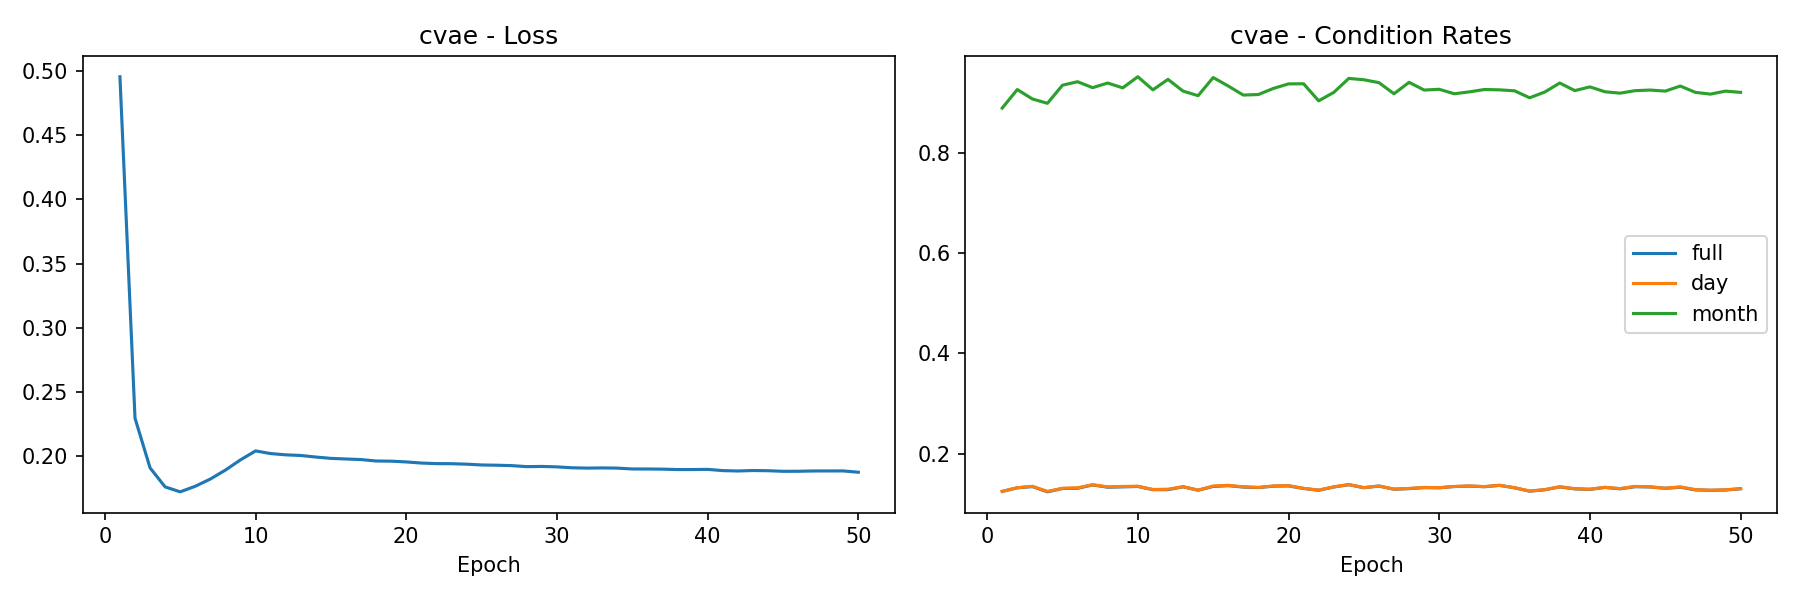
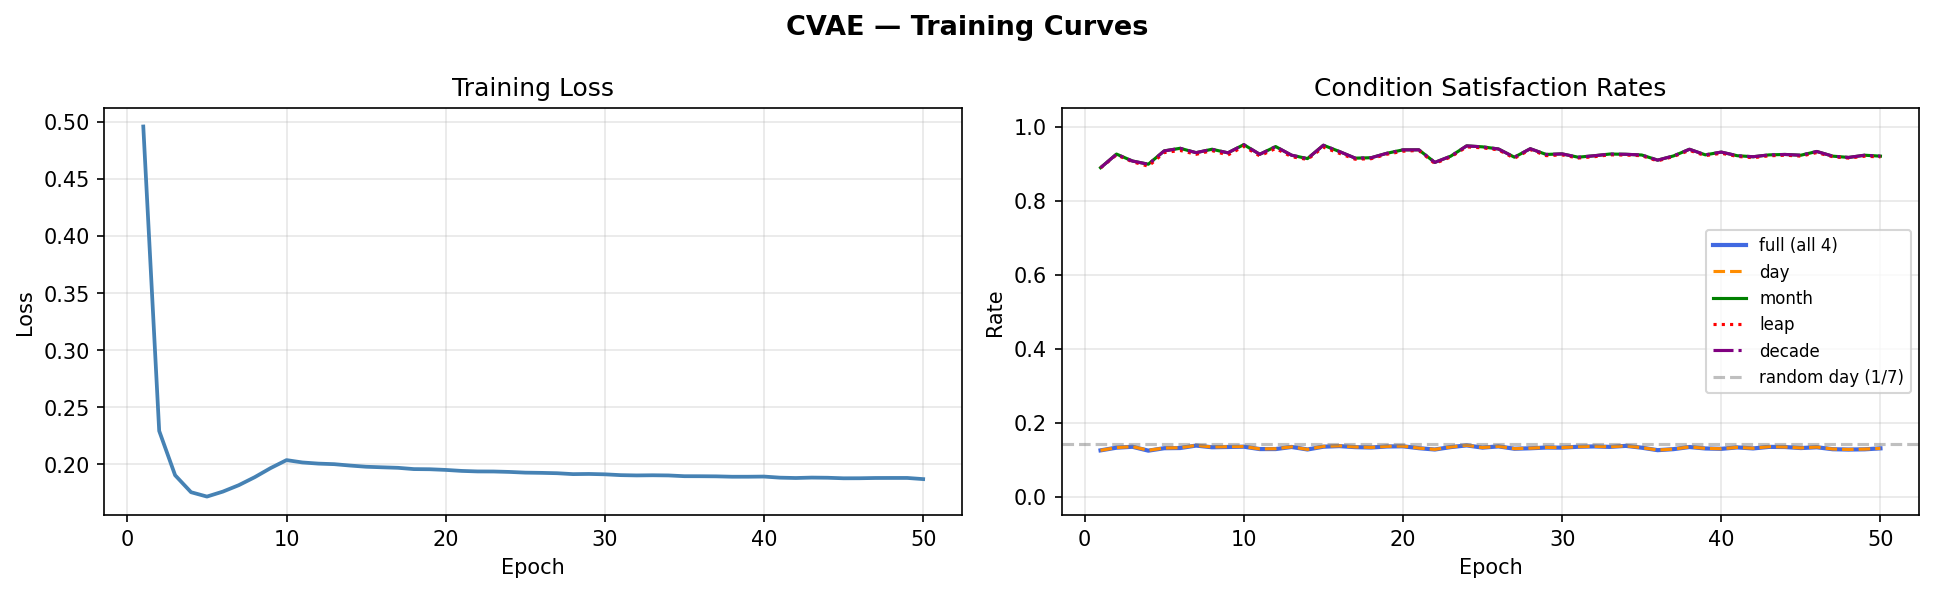
fix :seq2seq

diff --git a/scripts/fix_and_plot.py b/scripts/fix_and_plot.py
@@ -1,0 +1,63 @@
+import pandas as pd
+import matplotlib
+matplotlib.use('Agg')
+import matplotlib.pyplot as plt
+from pathlib import Path
+
+# ── Load and clean ───────────────────────────────────────────
+df = pd.read_csv("model/weights/training_log.csv")
+
+# For seq2seq: keep only the last 50 epochs (the fixed run)
+# Drop rows where loss is NaN or absurdly large (>1000)
+df_clean = df[df["train_loss"].notna() & (df["train_loss"] < 1000)].copy()
+
+# For each model keep only the last N epochs in case of duplicate runs
+cleaned_parts = []
+for model in df_clean["model"].unique():
+    m = df_clean[df_clean["model"] == model].copy()
+    # Re-index epochs from 1
+    m = m.reset_index(drop=True)
+    m["epoch"] = range(1, len(m) + 1)
+    cleaned_parts.append(m)
+
+df_clean = pd.concat(cleaned_parts, ignore_index=True)
+df_clean.to_csv("model/weights/training_log_clean.csv", index=False)
+print("Cleaned CSV saved.")
+
+# ── Plot each model ──────────────────────────────────────────
+Path("eval_results").mkdir(exist_ok=True)
+
+for model in df_clean["model"].unique():
+    m = df_clean[df_clean["model"] == model]
+
+    fig, (ax1, ax2) = plt.subplots(1, 2, figsize=(13, 4))
+    fig.suptitle(f"{model.upper()} — Training Curves", fontsize=13, fontweight="bold")
+
+    # Left: Loss
+    ax1.plot(m["epoch"], m["train_loss"], color="steelblue", linewidth=1.8)
+    ax1.set_title("Training Loss")
+    ax1.set_xlabel("Epoch")
+    ax1.set_ylabel("Loss")
+    ax1.grid(True, alpha=0.3)
+
+    # Right: Condition rates
+    ax2.plot(m["epoch"], m["full_pass_rate"],   label="full (all 4)",  linewidth=2,   color="royalblue")
+    ax2.plot(m["epoch"], m["day_pass_rate"],    label="day",           linewidth=1.5, color="darkorange", linestyle="--")
+    ax2.plot(m["epoch"], m["month_pass_rate"],  label="month",         linewidth=1.5, color="green")
+    ax2.plot(m["epoch"], m["leap_pass_rate"],   label="leap",          linewidth=1.5, color="red",    linestyle=":")
+    ax2.plot(m["epoch"], m["decade_pass_rate"], label="decade",        linewidth=1.5, color="purple", linestyle="-.")
+    ax2.axhline(y=1/7, color="gray", linestyle="--", alpha=0.5, label="random day (1/7)")
+    ax2.set_ylim(-0.05, 1.05)
+    ax2.set_title("Condition Satisfaction Rates")
+    ax2.set_xlabel("Epoch")
+    ax2.set_ylabel("Rate")
+    ax2.legend(fontsize=8, loc="center right")
+    ax2.grid(True, alpha=0.3)
+
+    plt.tight_layout()
+    out = f"eval_results/{model}_training.png"
+    plt.savefig(out, dpi=150, bbox_inches="tight")
+    plt.close()
+    print(f"Saved: {out}")
+
+print("\nAll plots saved to eval_results/")

diff --git a/scripts/fix_seq2seq_plot.py b/scripts/fix_seq2seq_plot.py
@@ -1,0 +1,43 @@
+import pandas as pd
+import matplotlib
+matplotlib.use('Agg')
+import matplotlib.pyplot as plt
+from pathlib import Path
+
+Path("eval_results").mkdir(exist_ok=True)
+
+df = pd.read_csv("model/weights/training_log.csv")
+
+# Keep only seq2seq rows where loss < 10 (the fixed run, not the NaN/millions run)
+seq = df[(df["model"] == "seq2seq") & (df["train_loss"] < 10)].copy()
+seq = seq.reset_index(drop=True)
+seq["epoch"] = range(1, len(seq) + 1)
+
+print(f"Seq2seq clean rows: {len(seq)}")
+print(seq[["epoch","train_loss","full_pass_rate","day_pass_rate","month_pass_rate"]].head(10))
+
+fig, (ax1, ax2) = plt.subplots(1, 2, figsize=(13, 4))
+fig.suptitle("SEQ2SEQ — Training Curves", fontsize=13, fontweight="bold")
+
+ax1.plot(seq["epoch"], seq["train_loss"], color="steelblue", linewidth=1.8)
+ax1.set_title("Training Loss")
+ax1.set_xlabel("Epoch"); ax1.set_ylabel("Loss")
+ax1.set_ylim(0.85, 1.30)
+ax1.grid(True, alpha=0.3)
+
+ax2.plot(seq["epoch"], seq["full_pass_rate"],   label="full (all 4)",  color="royalblue",  linewidth=2)
+ax2.plot(seq["epoch"], seq["day_pass_rate"],    label="day",           color="darkorange", linewidth=1.5, linestyle="--")
+ax2.plot(seq["epoch"], seq["month_pass_rate"],  label="month",         color="green",      linewidth=1.5)
+ax2.plot(seq["epoch"], seq["leap_pass_rate"],   label="leap",          color="red",        linewidth=1.5, linestyle=":")
+ax2.plot(seq["epoch"], seq["decade_pass_rate"], label="decade",        color="purple",     linewidth=1.5, linestyle="-.")
+ax2.axhline(y=1/7, color="gray", linestyle="--", alpha=0.5, label="random day (1/7)")
+ax2.set_ylim(-0.05, 1.05)
+ax2.set_title("Condition Satisfaction Rates")
+ax2.set_xlabel("Epoch"); ax2.set_ylabel("Rate")
+ax2.legend(fontsize=8, loc="center right")
+ax2.grid(True, alpha=0.3)
+
+plt.tight_layout()
+plt.savefig("eval_results/seq2seq_training_FIXED.png", dpi=150, bbox_inches="tight")
+plt.close()
+print("Saved: eval_results/seq2seq_training_FIXED.png")